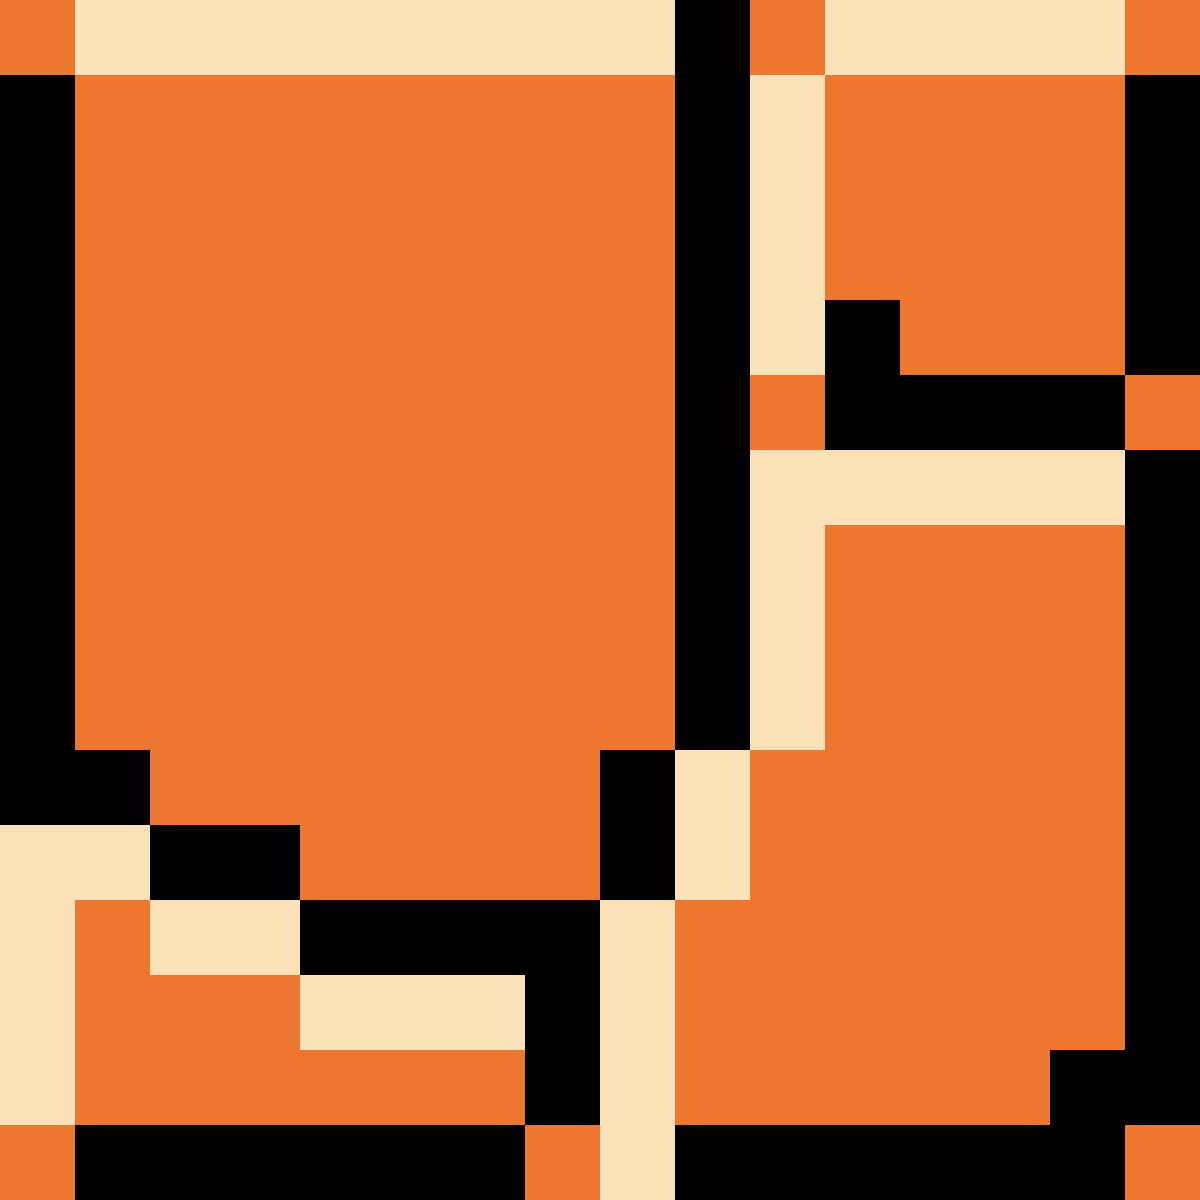
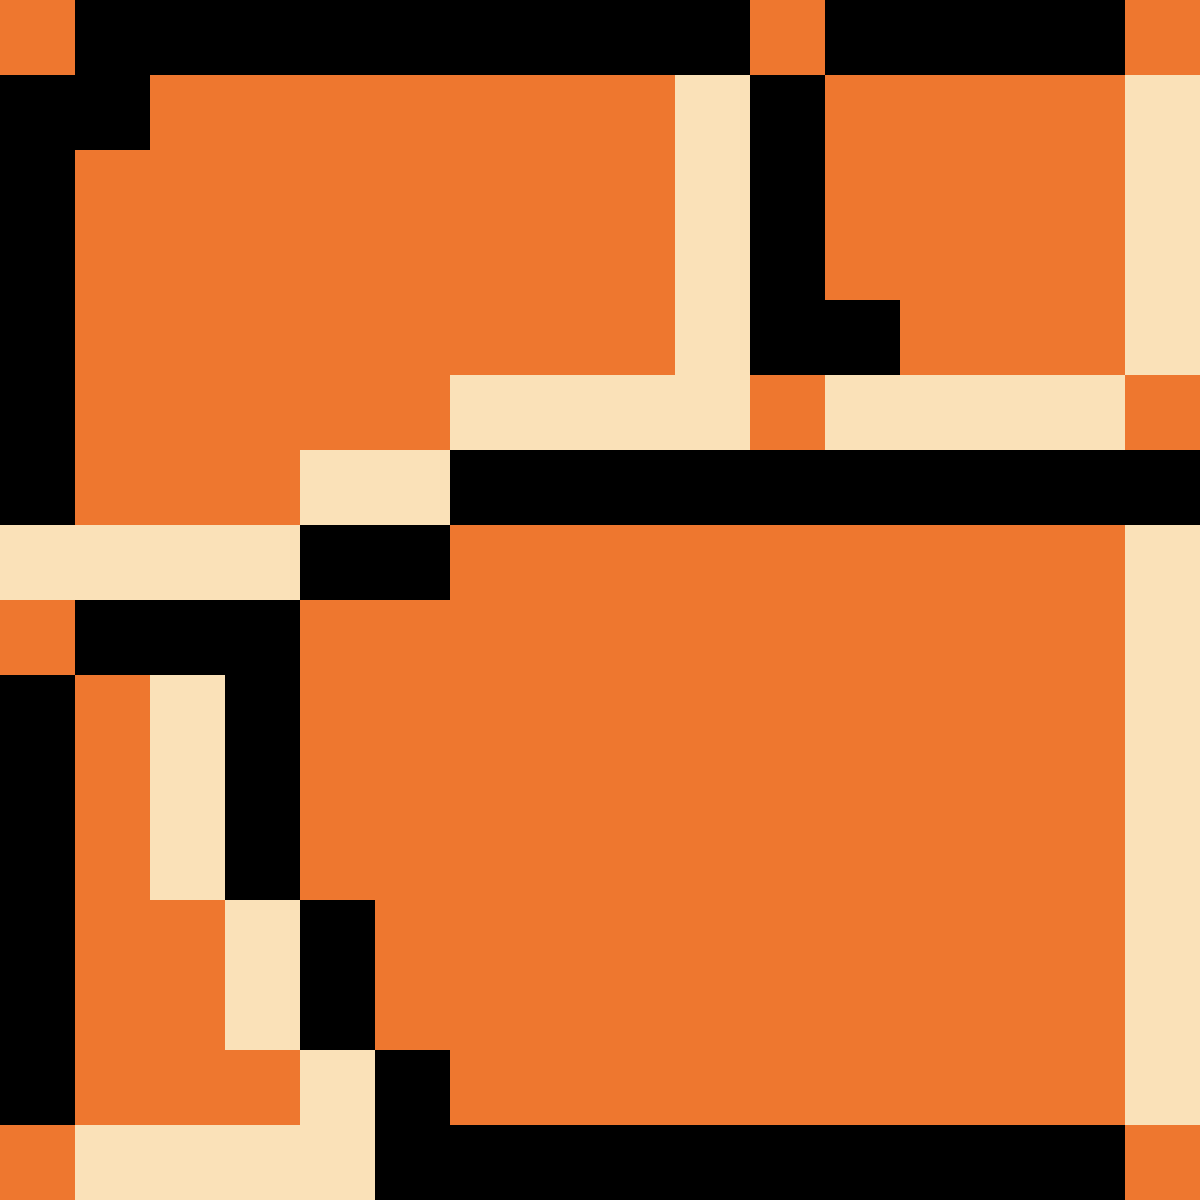
added uv scaling to main so textures now repeat properly
all block sprites had to be rotated to the right and flipped so they look correct

diff --git a/src/main.js b/src/main.js
@@ -9,9 +9,9 @@ window.onload = () => {
 }
 
 /**
- * 
- * @param {object - contains vertex, normal, uv information for the mesh to be made} mesh 
- * @param {object - the game object that will use the mesh information} object 
+ *
+ * @param {object - contains vertex, normal, uv information for the mesh to be made} mesh
+ * @param {object - the game object that will use the mesh information} object
  * @purpose - Helper function called as a callback function when the mesh is done loading for the object
  */
 function createMesh(mesh, object) {
@@ -40,10 +40,10 @@ function createMesh(mesh, object) {
 }
 
 /**
- * 
- * @param {string - type of object to be added to the scene} type 
- * @param {string - url of the model being added to the game} url 
- * @purpose **WIP** Adds a new object to the scene from using the gui to add said object 
+ *
+ * @param {string - type of object to be added to the scene} type
+ * @param {string - url of the model being added to the game} url
+ * @purpose **WIP** Adds a new object to the scene from using the gui to add said object
  */
 function addObject(type, url = null) {
     if (type === "Cube") {
@@ -84,7 +84,7 @@ function main() {
         uniform mat4 uViewMatrix;
         uniform mat4 uModelMatrix;
         uniform mat4 normalMatrix;
-        
+
         out vec3 oFragPosition;
         out vec3 oCameraPosition;
         out vec3 oNormal;
@@ -115,7 +115,7 @@ function main() {
         in vec3 normalInterp;
         in vec2 oUV;
         in vec3 oVertBitang;
-        
+
         uniform vec3 uCameraPosition;
         uniform int numLights;
         uniform vec3 diffuseVal;
@@ -130,7 +130,7 @@ function main() {
         uniform vec3 uLightPositions[MAX_LIGHTS];
         uniform vec3 uLightColours[MAX_LIGHTS];
         uniform float uLightStrengths[MAX_LIGHTS];
-     
+
         out vec4 fragColor;
 
         void main() {
@@ -181,7 +181,7 @@ function main() {
             } else {
                 fragColor = vec4(ambient + diffuse + specular, 1.0);
             }
-            
+
         }
         `;
 
@@ -222,6 +222,37 @@ function main() {
             let tempCube = new Cube(gl, object.name, object.parent, object.material.ambient, object.material.diffuse, object.material.specular, object.material.n, object.material.alpha, object.texture, object.textureNorm);
             tempCube.vertShader = vertShaderSample;
             tempCube.fragShader = fragShaderSample;
+
+            if (object.scale){//checks if scale exists
+              for (let i=0; i<tempCube.model.uvs.length; i+=2){//scales tempCube.model.uvs by the scale values in the json
+                if (i<8){//front uvs
+                  tempCube.model.uvs[i] *= object.scale[0];//x value
+                  tempCube.model.uvs[i+1] *= object.scale[1];//y value
+                }
+                else if (i<16){//back uvs
+                  tempCube.model.uvs[i] *= object.scale[0];//x value
+                  tempCube.model.uvs[i+1] *= object.scale[1];//y value
+                }
+                else if (i<24){//left uvs
+                  tempCube.model.uvs[i] *= object.scale[1];//y value
+                  tempCube.model.uvs[i+1] *= object.scale[2];//z value
+                }
+                else if (i<32){//right uvs
+                  tempCube.model.uvs[i] *= object.scale[1];//y value
+                  tempCube.model.uvs[i+1] *= object.scale[2];//z value
+                }
+                else if (i<40){//top uvs
+                  tempCube.model.uvs[i] *= object.scale[2];//z value
+                  tempCube.model.uvs[i+1] *= object.scale[0];//x value
+                }
+                else if (i<48){//bottom uvs
+                  tempCube.model.uvs[i] *= object.scale[2];//z value
+                  tempCube.model.uvs[i+1] *= object.scale[0];//x value
+                }
+              }
+            }
+            //console.log("tempcube uvs: "+tempCube.model.uvs);
+
             tempCube.setup();
             tempCube.model.position = vec3.fromValues(object.position[0], object.position[1], object.position[2]);
             if (object.scale) {
@@ -251,9 +282,9 @@ function main() {
 }
 
 /**
- * 
- * @param {object - object containing scene values} state 
- * @param {object - the object to be added to the scene} object 
+ *
+ * @param {object - object containing scene values} state
+ * @param {object - the object to be added to the scene} object
  * @purpose - Helper function for adding a new object to the scene and refreshing the GUI
  */
 function addObjectToScene(state, object) {
@@ -271,9 +302,9 @@ function addObjectToScene(state, object) {
 }
 
 /**
- * 
- * @param {gl context} gl 
- * @param {object - object containing scene values} state 
+ *
+ * @param {gl context} gl
+ * @param {object - object containing scene values} state
  * @purpose - Calls the drawscene per frame
  */
 function startRendering(gl, state) {
@@ -339,7 +370,7 @@ function startRendering(gl, state) {
                 state.camera.position[1] = player.model.position[1] + 1;    //top of player
                 state.camera.position[2] = player.model.position[2] + 0.5;
 
-                state.camera.center = vec3.fromValues(player.model.position[0] + 0.25, 
+                state.camera.center = vec3.fromValues(player.model.position[0] + 0.25,
                                                     player.model.position[1]+1,
                                                     player.model.position[2]+2);
             }
@@ -377,10 +408,10 @@ function startRendering(gl, state) {
 }
 
 /**
- * 
- * @param {gl context} gl 
- * @param {float - time from now-last} deltaTime 
- * @param {object - contains the state for the scene} state 
+ *
+ * @param {gl context} gl
+ * @param {float - time from now-last} deltaTime
+ * @param {object - contains the state for the scene} state
  * @purpose Iterate through game objects and render the objects aswell as update uniforms
  */
 function drawScene(gl, deltaTime, state) {
@@ -480,7 +511,7 @@ function drawScene(gl, deltaTime, state) {
                         gl.uniform1i(object.programInfo.uniformLocations.samplerExists, state.samplerExists);
                         gl.uniform1i(object.programInfo.uniformLocations.sampler, 0);
                         gl.bindTexture(gl.TEXTURE_2D, object.model.texture);
-                        
+
                     } else {
                         gl.activeTexture(gl.TEXTURE0);
                         state.samplerExists = 0;
